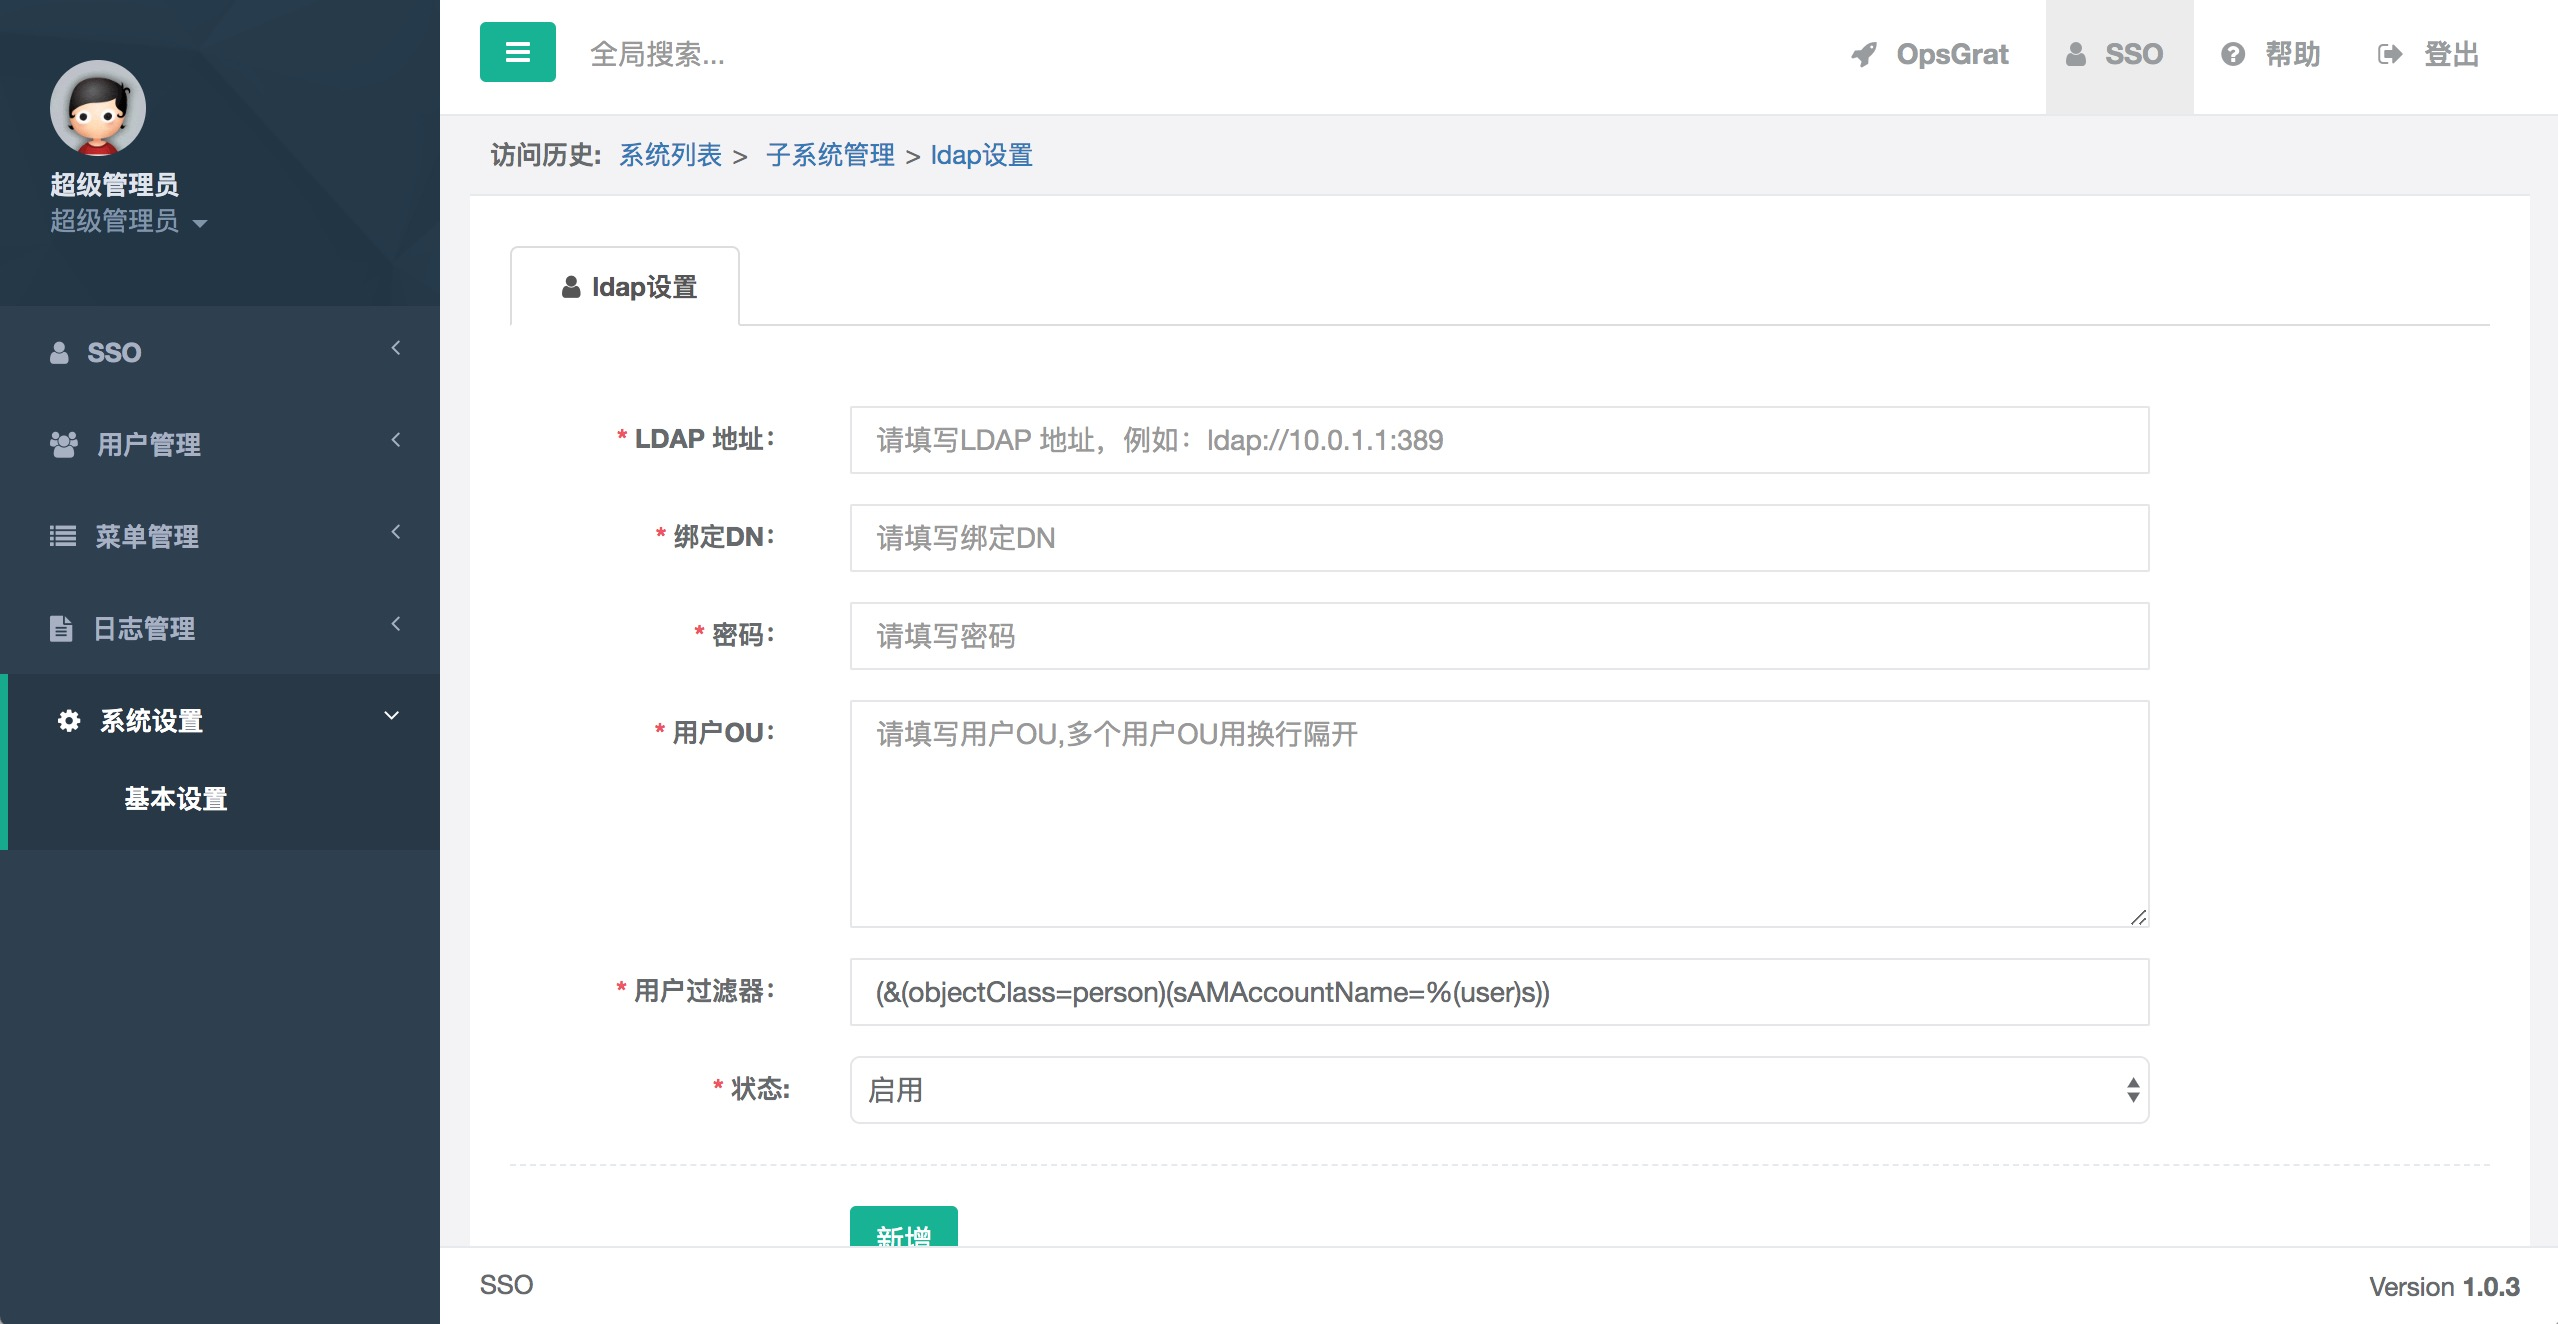
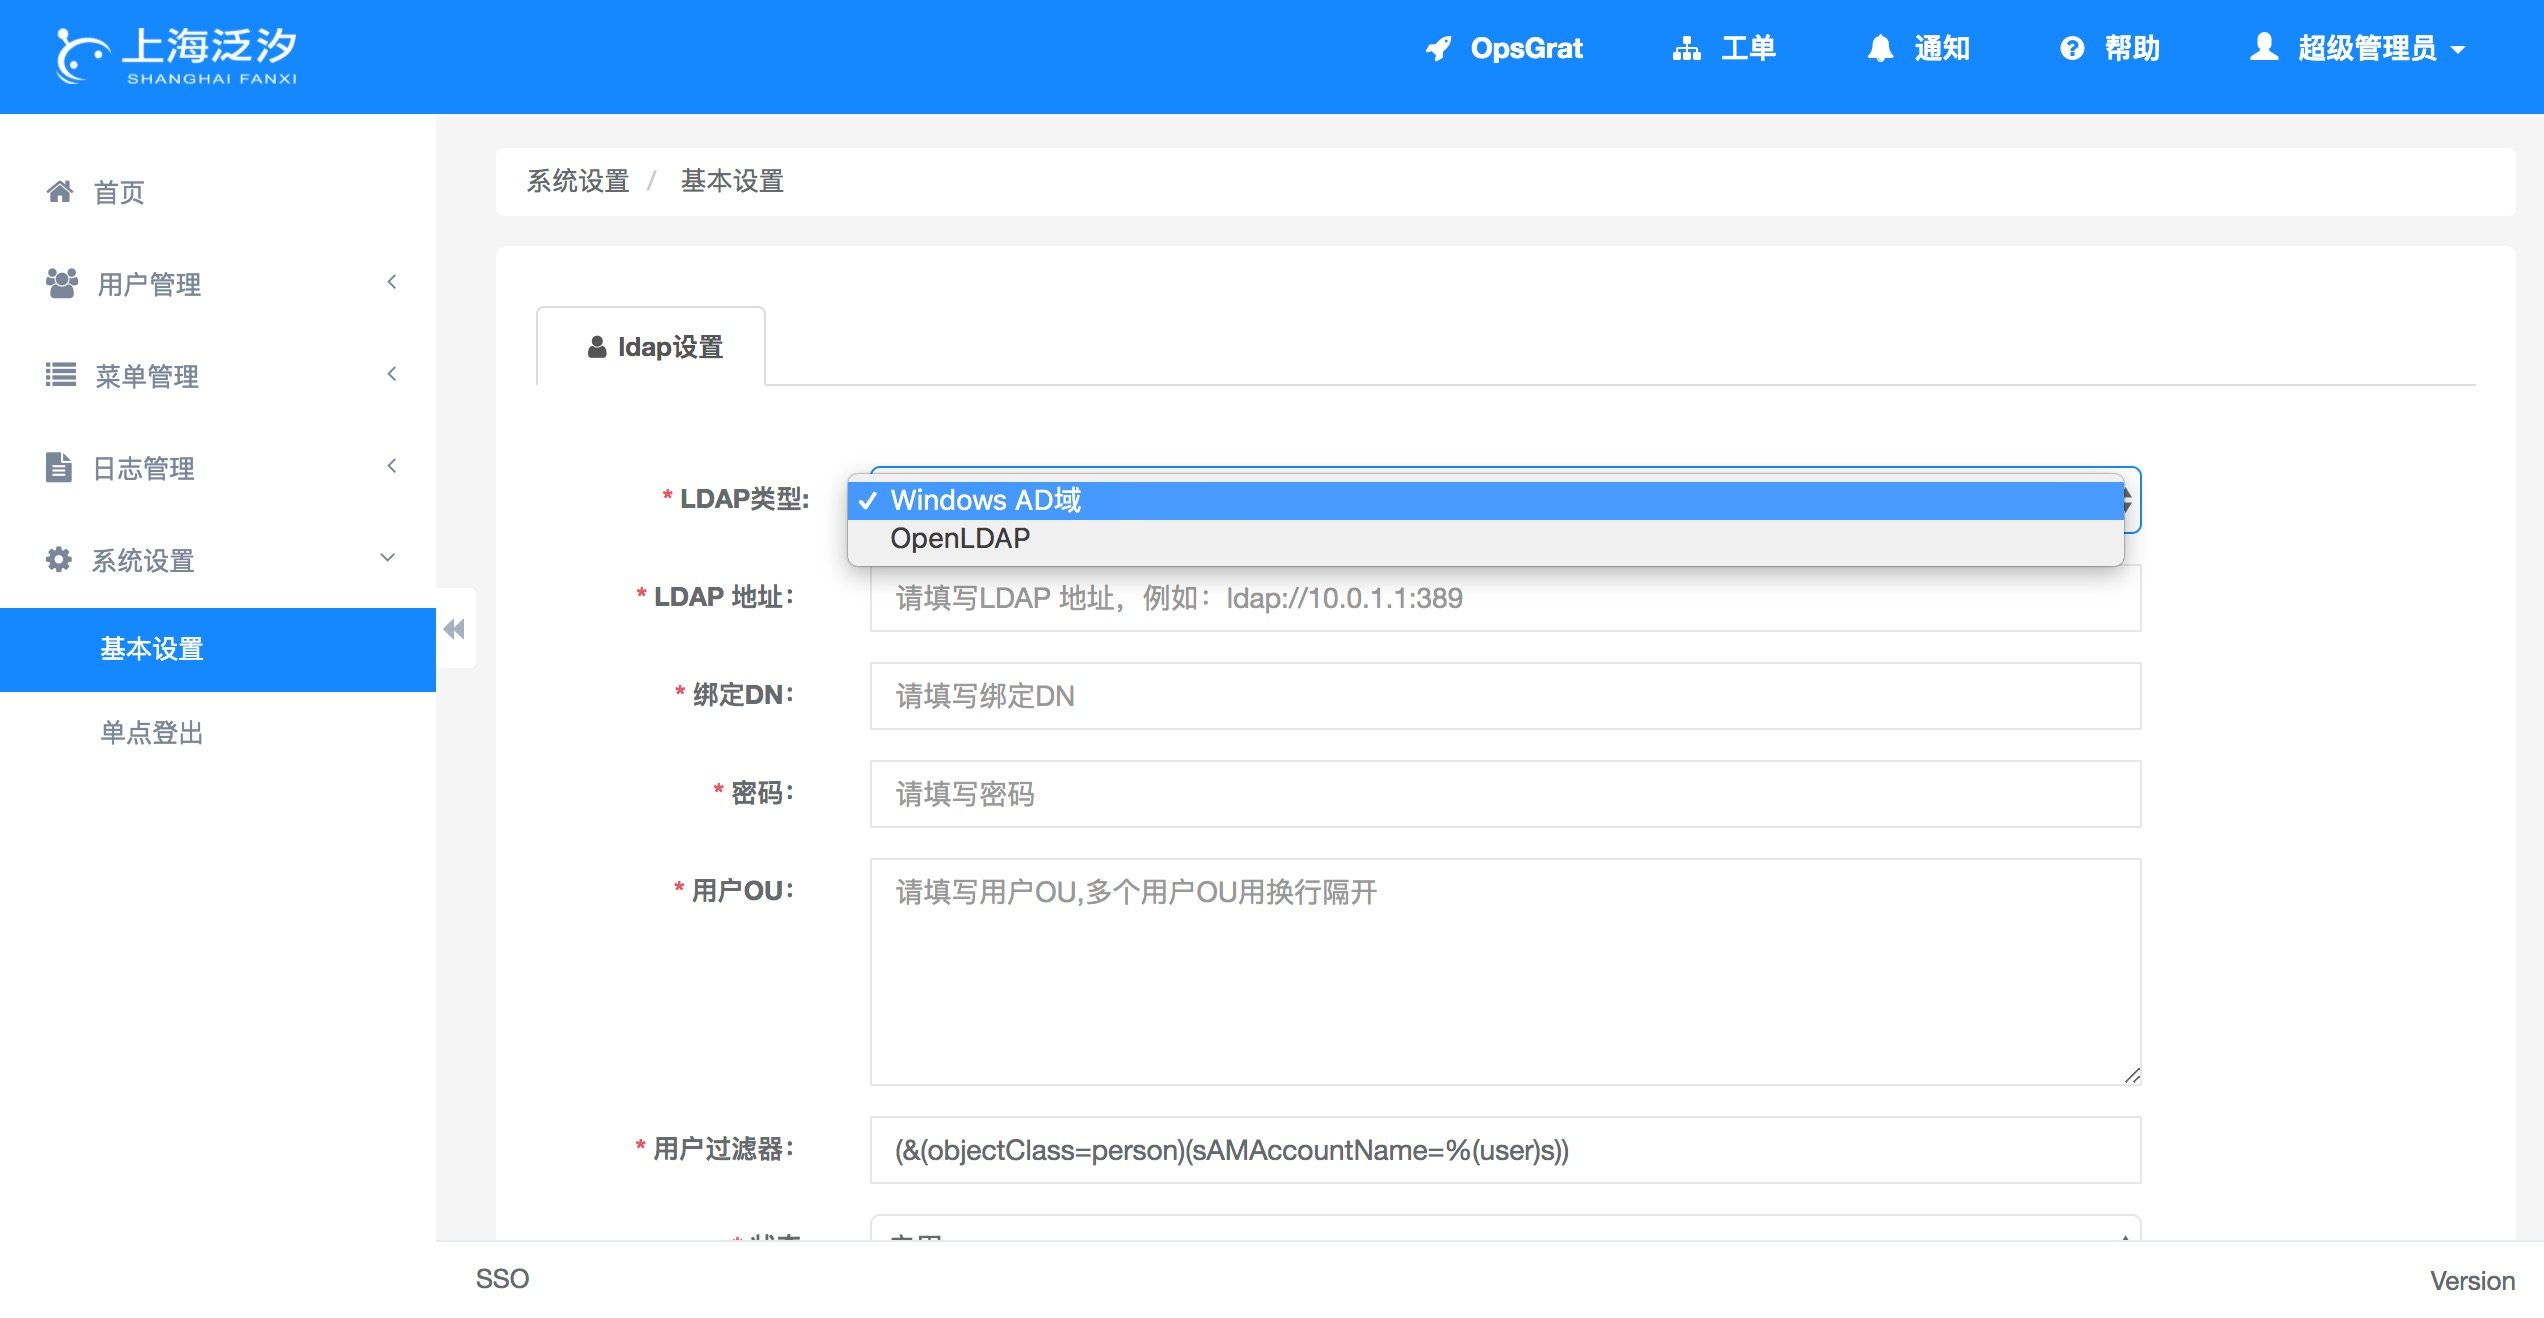
AD配置文档修改

diff --git a/source/using/ad.rst b/source/using/ad.rst
@@ -1,20 +1,19 @@
 AD配置
 =====================
 
-一、修改配置
---------------------------
-
-打开OpsGrat和sso的settings.py文件，在最后面加入如下内容：
-::
-   import ldap
-   AUTH_LDAP_CONNECTION_OPTIONS = {
-       ldap.OPT_DEBUG_LEVEL: 1,
-       ldap.OPT_REFERRALS: 0,
-   }
-
-二、ldap配置
+ldap配置
 -------------------------
 
 打开sso，进入“系统设置”菜单下的“基本设置”
 
 .. image:: ../_static/img/using/settings_ldap.png
+
+::
+   
+   LDAP类型：可选值有Windows AD域和OpenLDAP
+   LDAP 地址：LDAP的访问地址，例如：ldap://10.0.1.1:389
+   绑定DN：为提供给SSO系统使用的LDAP管理账号DN
+   密码：为上述管理账号的密码
+   用户OU：为允许登录SSO的用户部门OU，可以换行填入多个OU
+   用户过滤器：为查询用户的查询语句
+   状态：如果状态设置为禁用则系统将不会使用LDAP认证
